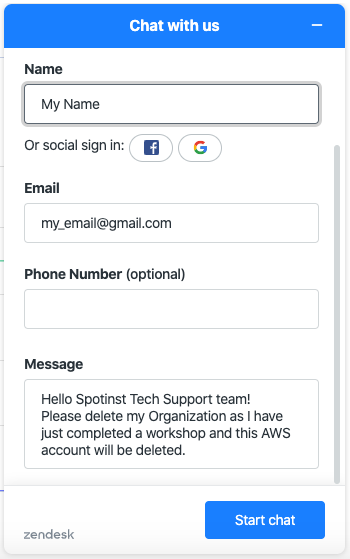
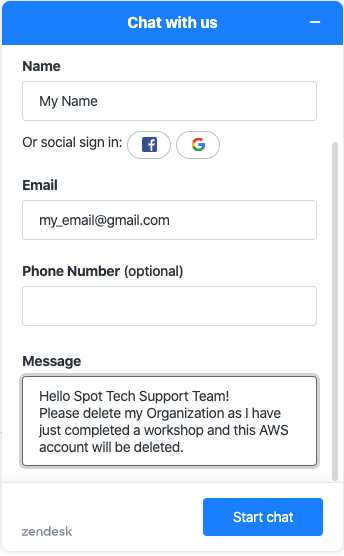
Rebranding updates

diff --git a/content/beginner/190_ocean/register.md b/content/beginner/190_ocean/register.md
@@ -1,15 +1,15 @@
 ---
-title: "Create a Free Spotinst Account"
+title: "Create a Free Spot Account"
 date: 2019-04-09T00:00:00-03:00
 weight: 10
 draft: false
 ---
 
-In this section, you will create a free Spotinst account, and subsequently link that account to your AWS account.
+In this section, you will create a free Spot account, and subsequently link that account to your AWS account.
 A video tutorial covering this section can be found at the bottom of the page.
 
-#### Creating a Spotinst Account
-Begin by heading over to [spotinst.com](https://spotinst.com) and clicking the "Get Started for Free" button on the top right. This will take you to the sign up page, where you create a free Spotinst Account. 
+#### Creating a Spot Account
+Begin by heading over to [spot.io](https://spot.io) and clicking the "Get Started for Free" button on the top right. This will take you to the sign up page, where you create a free Account. 
 
 You will need to provide the following:
 
@@ -19,24 +19,24 @@ You will need to provide the following:
  - Country
 
 {{% notice info %}}
-If you are running this workshop on your own, you will be able to keep your Spotinst Account, as it is free of charge. For more information see [https://spotinst.com/pricing/](https://spotinst.com/pricing/).
+If you are running this workshop on your own, you will be able to keep your account, as it is free of charge. For more information see [https://spot.io/pricing/](https://spot.io/pricing/).
 {{% /notice %}}
 
-Next,  set your password, and verify your email by clicking the link in the verification email you will received from Spotinst. This brings you to the console login page.
+Next,  set your password, and verify your email by clicking the link in the verification email you will receive. This brings you to the console login page.
 
-Once you’re logged in, you will find yourself in the Spotinst Console.
+Once you’re logged in, you will find yourself in the Console.
 
-#### Connecting Your AWS Account To Spotinst
-Now, you will connect your AWS account to your Spotinst account in order to enable the Spotinst platform to manage AWS resources on your behalf.
+#### Connecting Your AWS Account
+Now, you will link your AWS account in order to enable the Spot platform to manage AWS resources on your behalf.
 
-1. Make sure you are **logged in** to the [Spotinst Console](https://console.spotinst.com/)
+1. Make sure you are **logged in** to the [Console](https://console.spotinst.com/)
 2. Select **Amazon Web Services** as the cloud provider.
  <img src="/images/ocean/select_cloud_provider.png" alt="Select Cloud Provider" width="700"/>
 
  {{% notice tip %}}
 Prior to connecting your AWS account, you can access a preview of the console, by clicking on “Get a Console Walkthrough“.
  {{% /notice %}}
-3. **Complete the process** by following the on-screen instructions. This will create the [IAM Role & Policy](https://api.spotinst.com/spotinst-api/administration/spotinst-policy/) necessary for Spotinst to manage resources on your behalf.
+3. **Complete the process** by following the on-screen instructions. This will create the [IAM Role & Policy](https://api.spotinst.com/spotinst-api/administration/spotinst-policy/) necessary for the management of resources on your behalf.
  <img src="/images/ocean/connect_aws_account.png" alt="Connect AWS Account Steps" width="700"/>
 
 

diff --git a/content/beginner/190_ocean/_index.md b/content/beginner/190_ocean/_index.md
@@ -1,5 +1,5 @@
 ---
-title: "Optimized Worker Node Management with Spotinst"
+title: "Optimized Worker Node Management with Spot Ocean"
 chapter: true
 weight: 190
 tags:
@@ -7,14 +7,14 @@ tags:
   - CON203
 ---
 
-# Optimized Worker Node Management with Spotinst Ocean
+# Optimized Worker Node Management with Spot Ocean
 
-<img src="/images/ocean/spotinst_logo.png" alt="Spotinst Logo" width="300"/>
+<img src="/images/ocean/spot_logo.png" alt="Spot Logo" width="300"/>
 
 ### Introduction
 [EC2 Spot Instances](https://aws.amazon.com/ec2/spot/) offer AWS customers up to 90% cost savings in comparison to On-Demand Instances. However, they can be interrupted with just a 2 minute warning. While this itself does not pose any issue for stateless workloads such as those typically running on EKS, managing larger clusters of AWS Spot Instances on your own, does require a large amount of manual configuration, setup and maintenance.
 
-For AWS customers looking for a turn-key solution that doesn’t require significant time and effort, Spotinst Ocean abstracts the nitty-gritty, EKS infrastructure management and provides an enterprise-level SLA for high availability, and data persistence. 
+For AWS customers looking for a turn-key solution that doesn’t require significant time and effort, Ocean abstracts the nitty-gritty, EKS infrastructure management and provides an enterprise-level SLA for high availability, and data persistence. 
 
 The result is that your EKS cluster will automatically run on an optimal blend of Spot Instances, Savings Plans and Reservations as well as On-Demand when needed, so you can focus on higher value activities. 
 
@@ -24,13 +24,12 @@ The result is that your EKS cluster will automatically run on an optimal blend o
  - An installed and configured `kubectl`.
 
 ### What will you achieve
-After concluding this chapter, you will be set up with Spotinst, understand the benefits it brings to EKS users and will be able to run a fully optimized EKS cluster, with ease and confidence.
+After concluding this chapter, you will be set up with Spot Ocean, understand the benefits it brings to EKS users and will be able to run a fully optimized EKS cluster, with ease and confidence.
 
 {{% notice note %}}
-Throughout this chapter we will be working with the Spotinst Console UI, and use of the AWS vended version of `eksctl` is assumed. However, you should know that there is an Ocean integrated version of `eksctl`, which allows you to streamline and optimize the entire process. If you wish to learn more about the Spotinst vended version of `eksctl` click [here](https://spotinst.com/blog/eks-done-right-from-control-plane-to-worker-nodes/).
+Throughout this chapter we will be working with the Console UI, and use of the AWS vended version of `eksctl` is assumed. However, you should know that there is an Ocean integrated version of `eksctl`, which allows you to streamline and optimize the entire process. If you wish to learn more about the Spot vended version of `eksctl` click [here](https://spot.io/blog/eks-done-right-from-control-plane-to-worker-nodes/).
 {{% /notice %}}
 
-<img src="/images/ocean/ocean_logo.png" alt="Ocean Logo" width="270"/>
 
 <img src="/images/ocean/ocean_overview.png" alt="Ocean Overview" width="700"/>
 

diff --git a/content/beginner/190_ocean/deploying_apps.md b/content/beginner/190_ocean/deploying_apps.md
@@ -11,11 +11,11 @@ In this section we will launch a test deployment and see how Ocean handles diffe
 ### Easily Run Multiple Workload Types In One Cluster
 The challenge of running multiple workload types on the same Kubernetes cluster is applying a unique configuration to each one of the workloads in a heterogeneous environment. When your worker nodes are managed in a standard EKS cluster, usually every workload is managed separately in a different Auto-scaling group.
 
-With Spotinst Ocean, you can define custom "launch specifications" which  allow you to configure multiple workload types on the same Ocean Cluster. As part of those launch specs, you can configure different sets of labels and taints to go along with a custom AMI, User Data script, Instance Profile, Security Group and Root Volume size, which will be used for the nodes that serve your matching pods. This additional layer of orchestration ensures the ability to run any type of workload on the same Ocean Cluster.
+With Ocean, you can define custom "launch specifications" which  allow you to configure multiple workload types on the same Ocean Cluster. As part of those launch specs, you can configure different sets of labels and taints to go along with a custom AMI, User Data script, Instance Profile, Security Group and Root Volume size, which will be used for the nodes that serve your matching pods. This additional layer of orchestration ensures the ability to run any type of workload on the same Ocean Cluster.
 
 Let's see how this works:
 
-1. Navigate to your Ocean Cluster within the Spotinst Console, then click on the Actions menu on the top right and select "Launch Specifications".
+1. Navigate to your Ocean Cluster within the Spot Console, then click on the Actions menu on the top right and select "Launch Specifications".
 <img src="/images/ocean/actions_launch_specs.png" alt="Actions - Launch Specs" />
 
 2. Here you can see the "Default Launch Specification" which represents the initial configuration that the Ocean cluster was created with. To add a new configuration, click the "Add Launch Specification" button on the top right.
@@ -39,7 +39,7 @@ Now we will run a deployment that will show us how Ocean scales up and automatic
 
 Below is an example yaml with 3 test desployments. 
 
-The first test deployment, named `od` uses a selector for the `env: dev` label, and will require On-Demand instances via the `spotinst.io/node-lifecycle: od` label. You can read more about using built in Spotinst Labels [here](https://api.spotinst.com/ocean/concepts/ocean-cloud/spotinst-labels-taints/). The second deployment, named `dev` will also require the `env: dev` label, while the third one, named `test` should run on instances labeled `env: test`. 
+The first test deployment, named `od` uses a selector for the `env: dev` label, and will require On-Demand instances via the `spotinst.io/node-lifecycle: od` label. You can read more about using built in labels [here](https://api.spotinst.com/ocean/concepts/ocean-cloud/spotinst-labels-taints/). The second deployment, named `dev` will also require the `env: dev` label, while the third one, named `test` should run on instances labeled `env: test`. 
 
 ```
 cat <<EoF > test_deployments.yaml

diff --git a/content/beginner/190_ocean/cleanup.md b/content/beginner/190_ocean/cleanup.md
@@ -8,8 +8,8 @@ draft: false
 ### Cleaning up
 
 {{% notice note %}}
-If you are running in your own account, you may keep your Ocean cluster and your Spotinst Account, as it is free of charge for up to 20 Nodes.
-If you are running in an account that was created for you as part of an AWS event, there is no need to delete the resources used in this chapter as the AWS account will be closed automatically, but you should still proceed with the deletion of the Ocean cluster and closing of the Spotinst account.
+If you are running in your own account, you may keep your Ocean cluster and your Spot Account, as it is free of charge for up to 20 Nodes.
+If you are running in an account that was created for you as part of an AWS event, there is no need to delete the resources used in this chapter as the AWS account will be closed automatically, but you should still proceed with the deletion of the Ocean cluster and closing of the Spot account.
 {{% /notice %}}
 
 To delete the resources used in this chapter from your EKS cluster: 
@@ -24,10 +24,10 @@ In order to delete the Ocean cluster, on the Ocean dashboard click Actions, and 
 Click "Delete Cluster" in the prompt.
 <img src="/images/ocean/delete_cluster.png" alt="Delete cluster" />
 
-Next in order to delete your Spotinst Organization, click the blue "Chat" button on far right edge of your Console, and ask the 24/7 Spotinst Tech Support team to delete it. 
+Next in order to delete your Spot Organization, click the blue "Chat" button on far right edge of your Console, and ask the 24/7 Spot Tech Support team to delete it. 
 
 {{% notice info %}}
-If your wish to make further use of your Spotinst Organization (to connect your real cloud account later, for example) you may leave your Organization in tact, and instead ask the Spotinst Tech Support team to allow you to create a new account, and make that one your default. Once that is done, you can ask for the account you were using during the workshop to be deleted.
+If your wish to make further use of your Spot Organization (to connect your real cloud account later, for example) you may leave your Organization in tact, and instead ask the Spot Tech Support team to allow you to create a new account, and make that one your default. Once that is done, you can ask for the account you were using during the workshop to be deleted.
 {{% /notice %}}
 <img src="/images/ocean/chat.png" alt="Chat window" />
 

diff --git a/content/beginner/190_ocean/headroom.md b/content/beginner/190_ocean/headroom.md
@@ -6,7 +6,7 @@ draft: false
 ---
 
 ### Keeping Scale-Up Proactive
-One of the key features of the Spotinst Ocean Autoscaler, is the ability to maintain a dynamic buffer of spare capacity called Headroom. The buffer is algorithmically tailored to meet the actual requirements of the incoming containerized workloads which enables immediate pod scheduling. This is perfect for workloads that make use of HPA, and helps prevent pending pods, making scale-up a proactive process.
+One of the key features of the Ocean Autoscaler, is the ability to maintain a dynamic buffer of spare capacity called Headroom. The buffer is algorithmically tailored to meet the actual requirements of the incoming containerized workloads which enables immediate pod scheduling. This is perfect for workloads that make use of HPA, and helps prevent pending pods, making scale-up a proactive process.
 
 Headroom is configurable via the Ocean Cluster's "Actions" menu, under "Customize Scaling":
 <img src="/images/ocean/actions_customize_scaling.png" alt="Actions - Customize Scaling" />

diff --git a/content/beginner/190_ocean/launch_ocean.md b/content/beginner/190_ocean/launch_ocean.md
@@ -33,8 +33,8 @@ In this section we will create a new Ocean cluster, associated with your existin
  <img src="/images/ocean/compute_settings.png" alt="Compute Settings" width="700"/>
 
 ### Step 4: Connectivity Configuration
- - Create a **Spotinst token** with the "Generate Token" link, or use an existing one.
- - Install the **Spotinst Controller** pod. Learn more about the Spotinst Controller Pod and Ocean’s anatomy [here](https://api.spotinst.com/ocean/concepts/ocean-cloud/introduction/#ocean-anatomy).
+ - Create a **token** with the "Generate Token" link, or use an existing one.
+ - Install the **Controller pod**. Learn more about the Controller Pod and Ocean’s anatomy [here](https://api.spotinst.com/ocean/concepts/ocean-cloud/introduction/#ocean-anatomy).
  - Click **Test Connectivity** to ensure the controller's functionality.
  - Once the connectivity test is successful, click **Next** to proceed to the Review screen.
  <img src="/images/ocean/connectivity.png" alt="Connectivity" width="700"/>

diff --git a/content/beginner/190_ocean/rightsizing.md b/content/beginner/190_ocean/rightsizing.md
@@ -8,7 +8,7 @@ draft: false
 ### Right Size Pod Requirements For Optimal Resource Allocation
 One of the challenging tasks of managing containerized clusters is estimating your Pods’ resource requirements in terms of vCPU and memory. Even if development teams manage to achieve an accurate estimate of their application’s resource consumption, chances are that these measurements will vary in a production environment.
 
-Spotinst Ocean’s Right Sizing feature compares the CPU & Memory requests of your Pods to their actual consumption in production. After analyzing the difference, Ocean provides resizing recommendations to improve the resource configuration of the Deployments.
+Ocean’s Right Sizing feature compares the CPU & Memory requests of your Pods to their actual consumption in production. After analyzing the difference, Ocean provides resizing recommendations to improve the resource configuration of the Deployments.
 
 <img src="/images/ocean/rightsizing.png" alt="Right Sizing" width="700"/>
 

diff --git a/content/beginner/190_ocean/showback.md b/content/beginner/190_ocean/showback.md
@@ -7,7 +7,7 @@ draft: false
 
 ### Kubernetes Workload Cost Showback
 
-Spotinst Ocean provides you with advanced Cost Analysis for your EKS cluster, with detailed showback which delivers visibility down to the application level. 
+Ocean provides you with advanced Cost Analysis for your EKS cluster, with detailed showback which delivers visibility down to the application level. 
 
 Found under Cost Analysis tab of the Ocean Console, the data can be aggregated in several ways:
 
